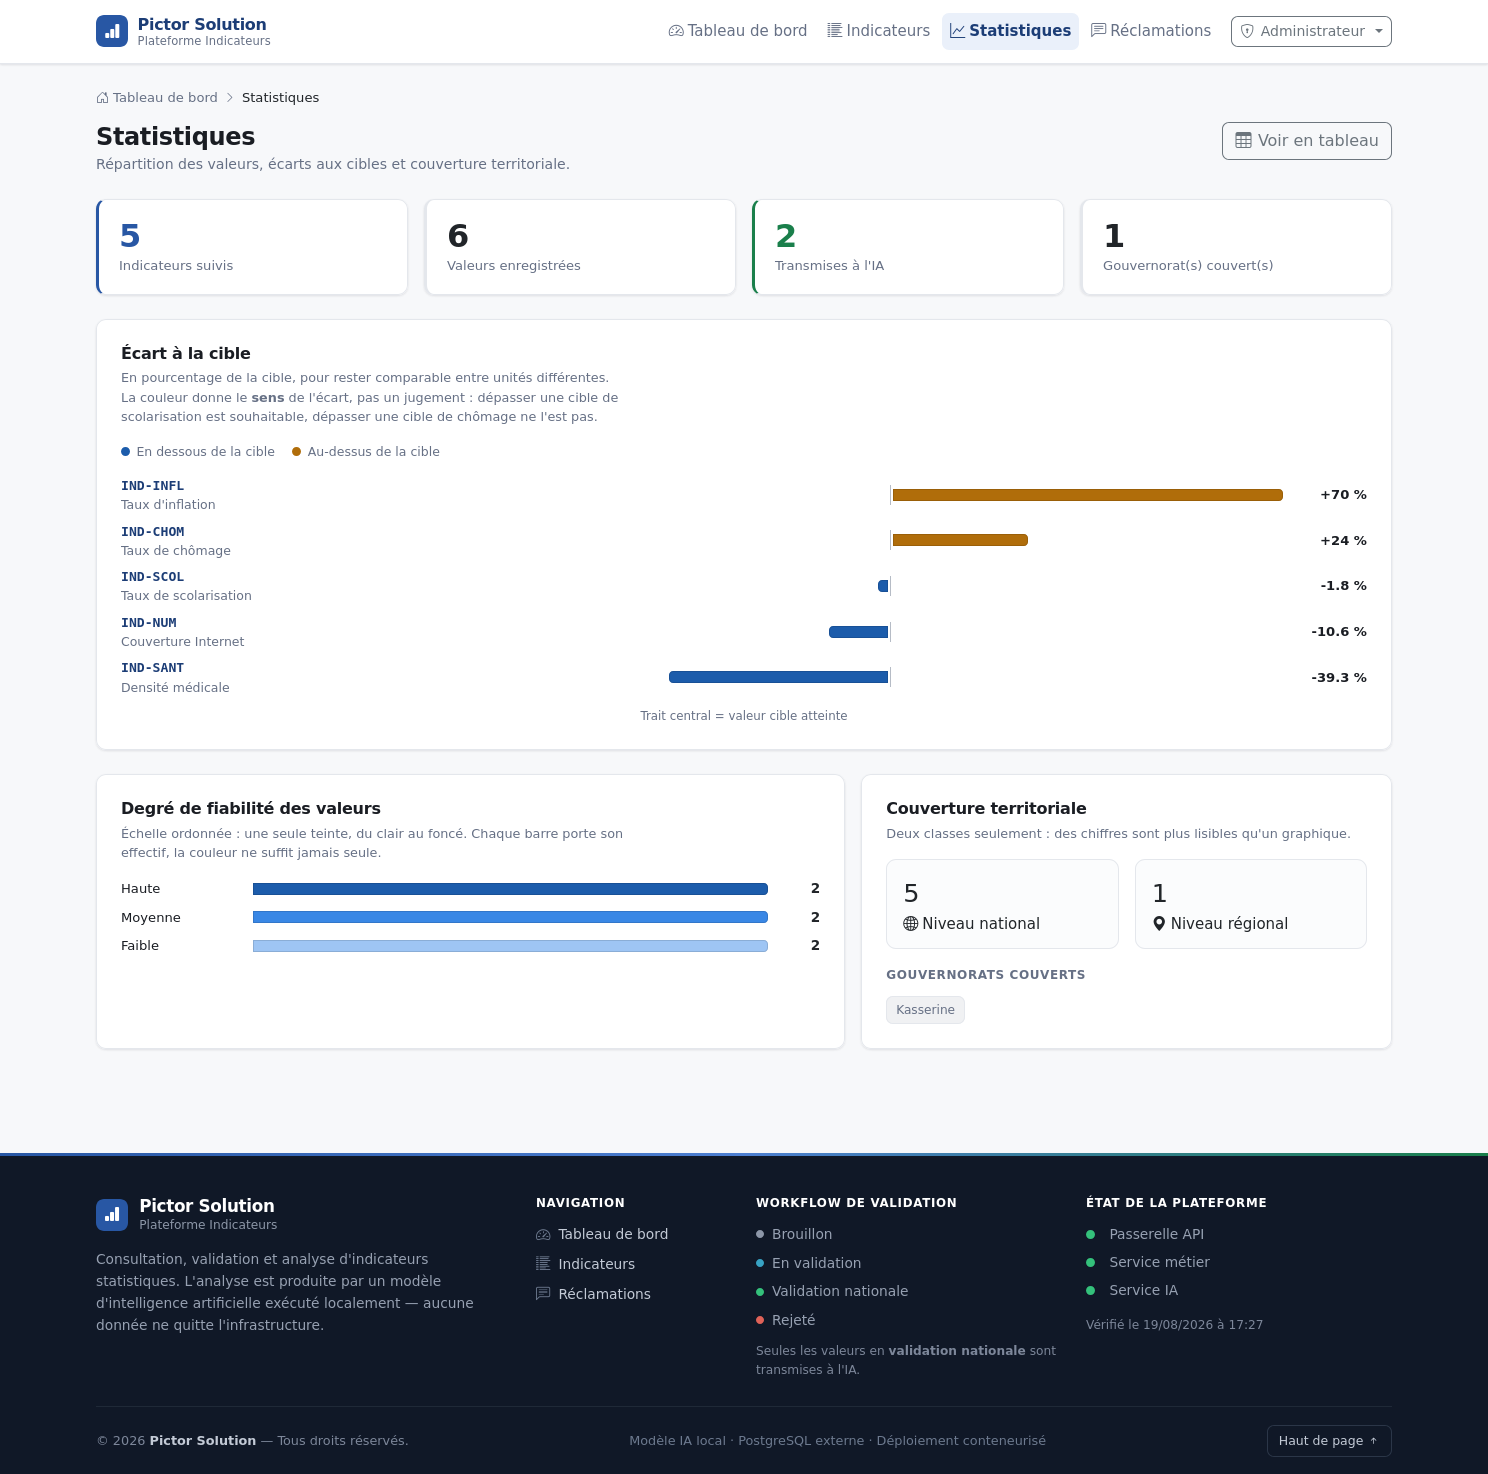
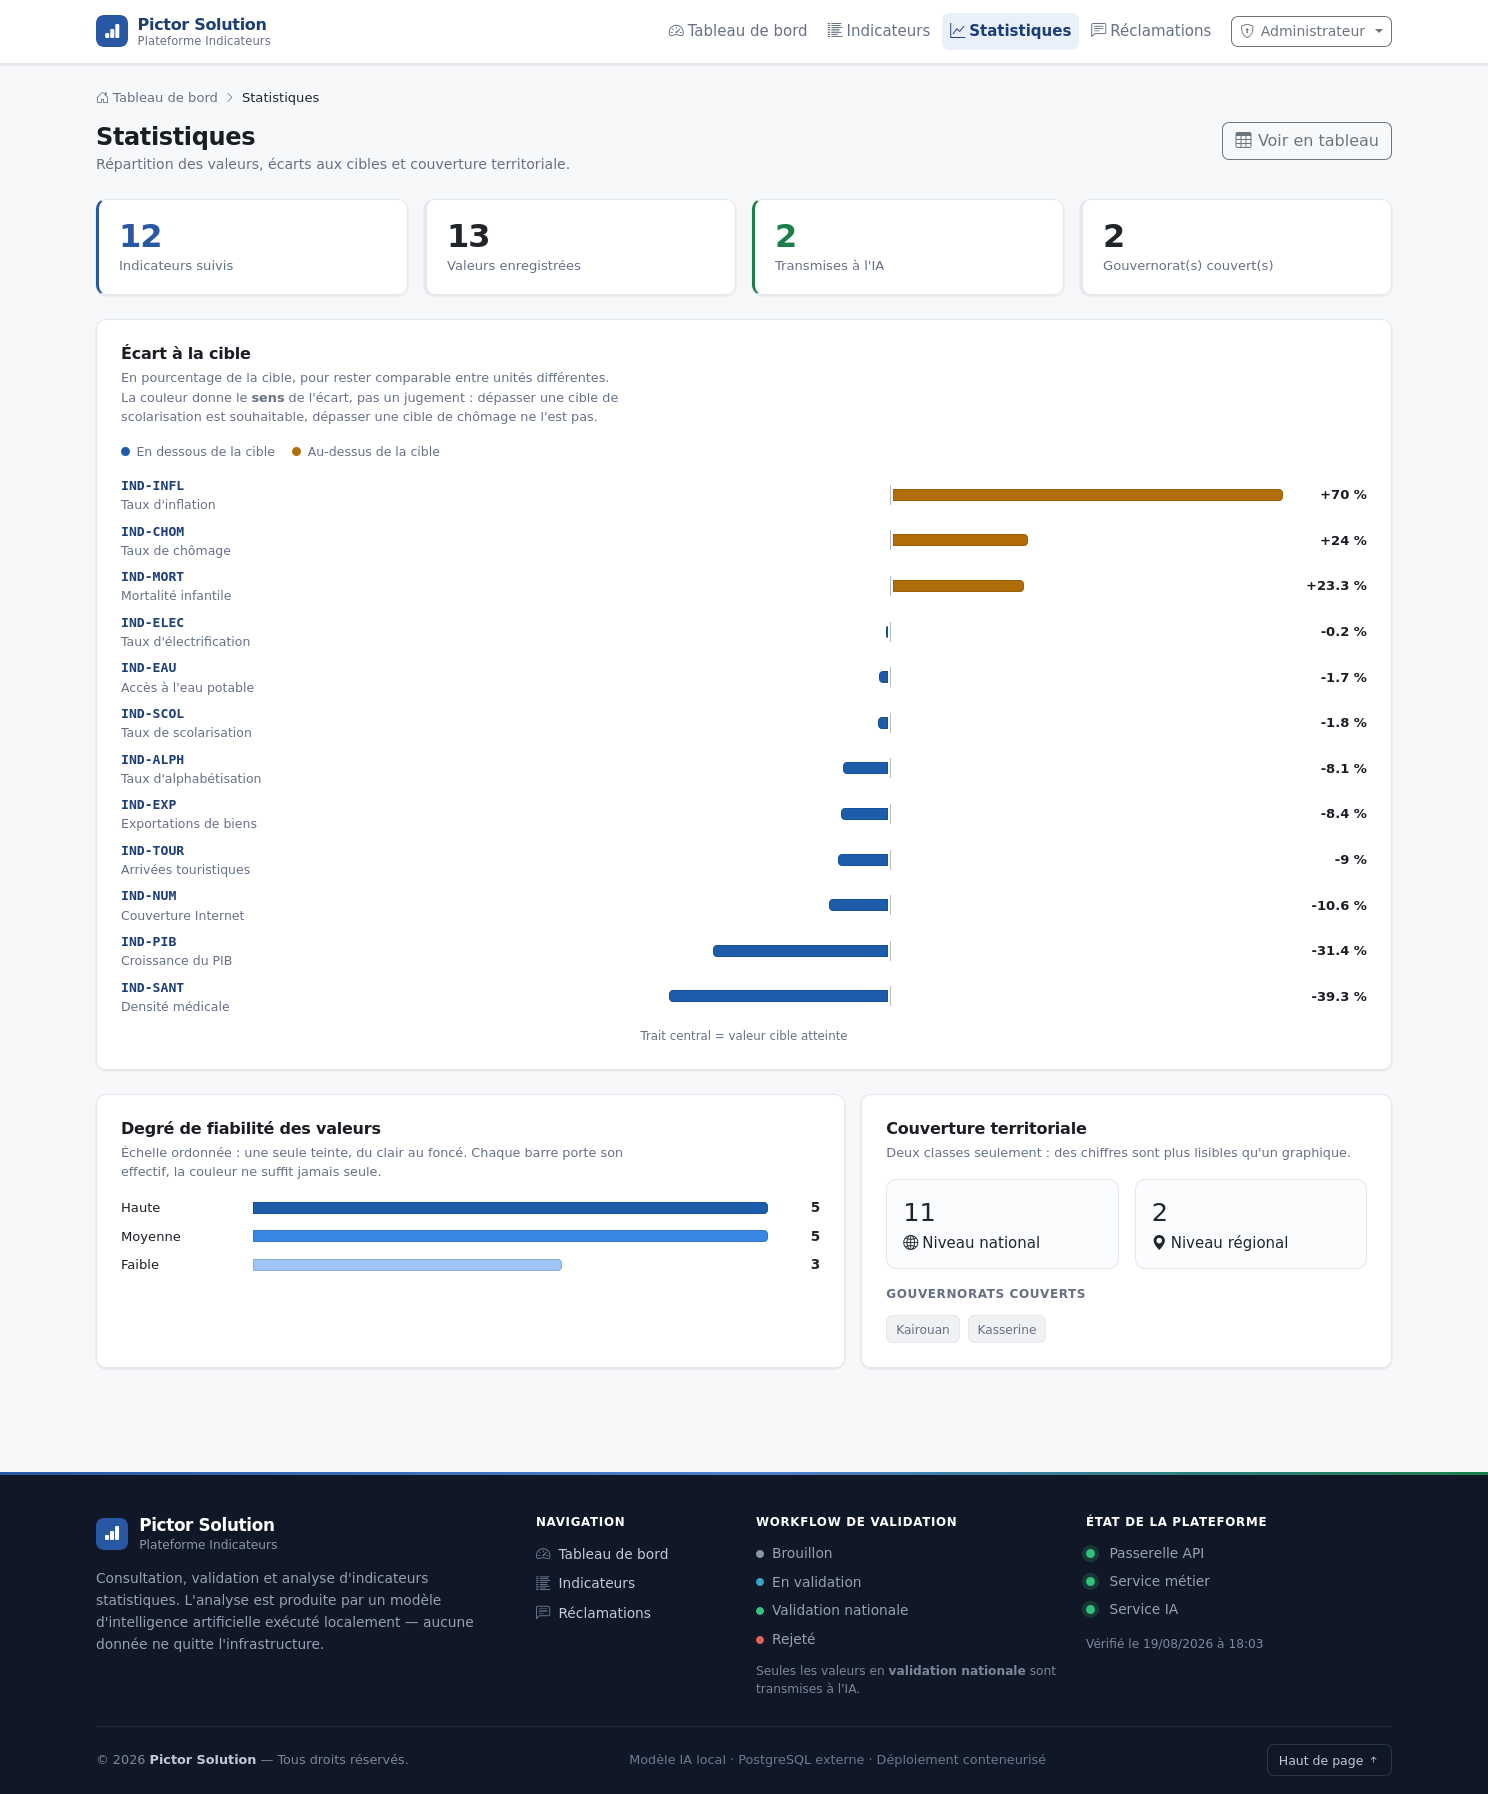
Sept indicateurs complementaires pour rendre la pagination demontrable
Avec cinq lignes, la pagination ne se declenchait jamais : la fonctionnalite
restait theorique a l'ecran. Le jeu passe a 12 indicateurs et 13 valeurs.

Les sept ajouts sont des indicateurs statistiques plausibles, avec leur source
reelle (INS, Banque Centrale, STEG, SONEDE, Ministere de la Sante), une cible
et une frequence coherentes. Nommer des lignes TMP-1 a TMP-7 aurait rendu la
pagination visible mais le jeu de donnees ridicule.

AUCUNE des nouvelles valeurs n'est validee. Le perimetre transmis a l'IA reste
exactement IND-CHOM et IND-SCOL. La demonstration de la regle du sujet en sort
renforcee plutot qu'affaiblie : 12 indicateurs en base, 2 valides, et la
reponse du modele ne parle que de ces deux-la.

Leurs statuts sont volontairement varies (5 brouillons, 4 en revue, 2 rejetes)
pour que la barre d'avancement montre une repartition reelle et non un simple
partage entre valide et non valide.

Compteurs mis a jour dans README, GUIDE-PLATEFORME, GUIDE-PRESENTATION et la
livraison de la semaine 8. Deux mentions de "5 indicateurs" sont conservees a
dessein : celle qui decrit le contenu de db/02-donnees-demo.sql, exacte, et la
citation de l'exemple du sujet.

Captures du tableau de bord, de la liste, de la progression, des statistiques
et de la pagination regenerees avec les nouveaux chiffres.

diff --git a/livraisons/semaine-08/README.md b/livraisons/semaine-08/README.md
@@ -122,7 +122,8 @@ répondrait sinon un texte plausible et entièrement inventé.
 
 ## 4. Scénario de démonstration
 
-Jeu de données : `db/02-donnees-demo.sql` — 5 indicateurs, **2 validés**.
+Jeu de données : `db/02-donnees-demo.sql` et `db/06-indicateurs-complementaires.sql`
+— **12 indicateurs, 2 validés**.
 
 | Code | Indicateur | Valeur | Statut | Vu par l'IA |
 |---|---|---|---|---|
@@ -233,7 +234,7 @@ navigateur, pas reconstitué.
 
 | Capture | Ce qu'elle montre |
 |---|---|
-| [`01-tableau-de-bord.png`](captures/01-tableau-de-bord.png) | 5 indicateurs, 6 valeurs saisies, **2 validées, 4 en attente** |
+| [`01-tableau-de-bord.png`](captures/01-tableau-de-bord.png) | Compteurs, barre d'avancement et périmètre IA |
 | [`02-liste-indicateurs.png`](captures/02-liste-indicateurs.png) | Liste alimentée par PostgreSQL via le Gateway |
 | [`03-detail-valeur-validee.png`](captures/03-detail-valeur-validee.png) | IND-CHOM : valeur `12,4 %`, statut **Validé**, « par Administrateur » |
 | [`04-detail-valeur-non-validee.png`](captures/04-detail-valeur-non-validee.png) | IND-INFL : valeur `6,8 %`, statut **EnRevue** — hors périmètre IA |
@@ -289,7 +290,8 @@ sans l'appeler. Mesures relevées pendant le scénario :
 | Après « Dévalider » sur IND-CHOM (dans l'interface) | **1** | **1** |
 | Après re-validation | **2** | **2** |
 
-C'est la démonstration demandée : *« 5 indicateurs en base, 2 validés → la
+C'est la démonstration demandée, à une échelle plus large que l'exemple du
+sujet : *« 5 indicateurs en base, 2 validés → la
 réponse IA ne parle que de ces 2-là »*. Dévalider en retire un du périmètre
 **sans supprimer la donnée**.
 

diff --git a/GUIDE-PLATEFORME.md b/GUIDE-PLATEFORME.md
@@ -66,6 +66,7 @@ Le drapeau lu par l'IA et le statut du workflow ne peuvent pas diverger. Un
 | `db/00-schema-initial.sql` | Dump de départ |
 | `db/01-migration-alignement.sql` | Aligne la base sur le modèle EF Core |
 | `db/02-donnees-demo.sql` | 5 indicateurs, 5 valeurs dont 2 validées |
+| `db/06-indicateurs-complementaires.sql` | 7 indicateurs de plus, aucun validé |
 | `db/03-reclamations.sql` | Table des réclamations |
 | `db/04-localisation.sql` | Colonnes pays et gouvernorat |
 | `db/05-documents-et-utilisateurs.sql` | Documents, référentiel d'agents, extension `unaccent` |

diff --git a/README.md b/README.md
@@ -92,7 +92,7 @@ docker compose ps
 | PostgreSQL | localhost:15432 (`postgres` / `testpwd`) |
 
 La base est initialisée automatiquement au premier démarrage : dump, migration,
-puis données de démonstration (5 indicateurs dont 2 validés).
+puis données de démonstration (**12 indicateurs, 13 valeurs dont 2 validées**).
 
 ```bash
 docker compose logs -f metier-service     # suivre un service

diff --git a/GUIDE-PRESENTATION.md b/GUIDE-PRESENTATION.md
@@ -45,7 +45,7 @@ et énoncer les deux décisions structurantes :
 
 ### Étape 2 — Les données viennent bien de la base (1 min)
 
-Tableau de bord : `5 indicateurs, 6 valeurs, 2 validées, 4 en attente`.
+Tableau de bord : `12 indicateurs, 13 valeurs, 2 validées, 11 en attente`.
 
 Puis prouver que ce n'est pas codé en dur :
 
